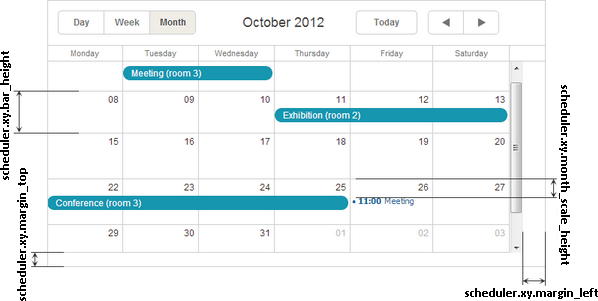
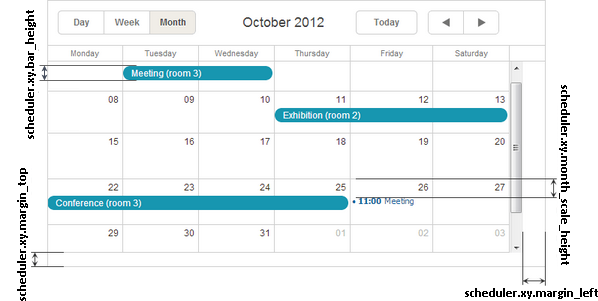
[fix] description of the scheduler.xy.bar_height config

Changed region(s): [[0.0, 0.1495, 0.2107, 0.598], [0.0301, 0.0299, 0.0602, 0.1495]]

diff --git a/data/api/scheduler_xy_other.md b/data/api/scheduler_xy_other.md
@@ -34,7 +34,7 @@ The **xy** object has the following properties:
 	<tbody>
 	<tr>
 		<td><a href="#month">bar_height</a></td>
-		<td>the height of day cells in the month view</td>
+		<td>the height of the task bars in the Month view</td>
 		<td>20</td>
 		<td>month</td>
 	</tr>
